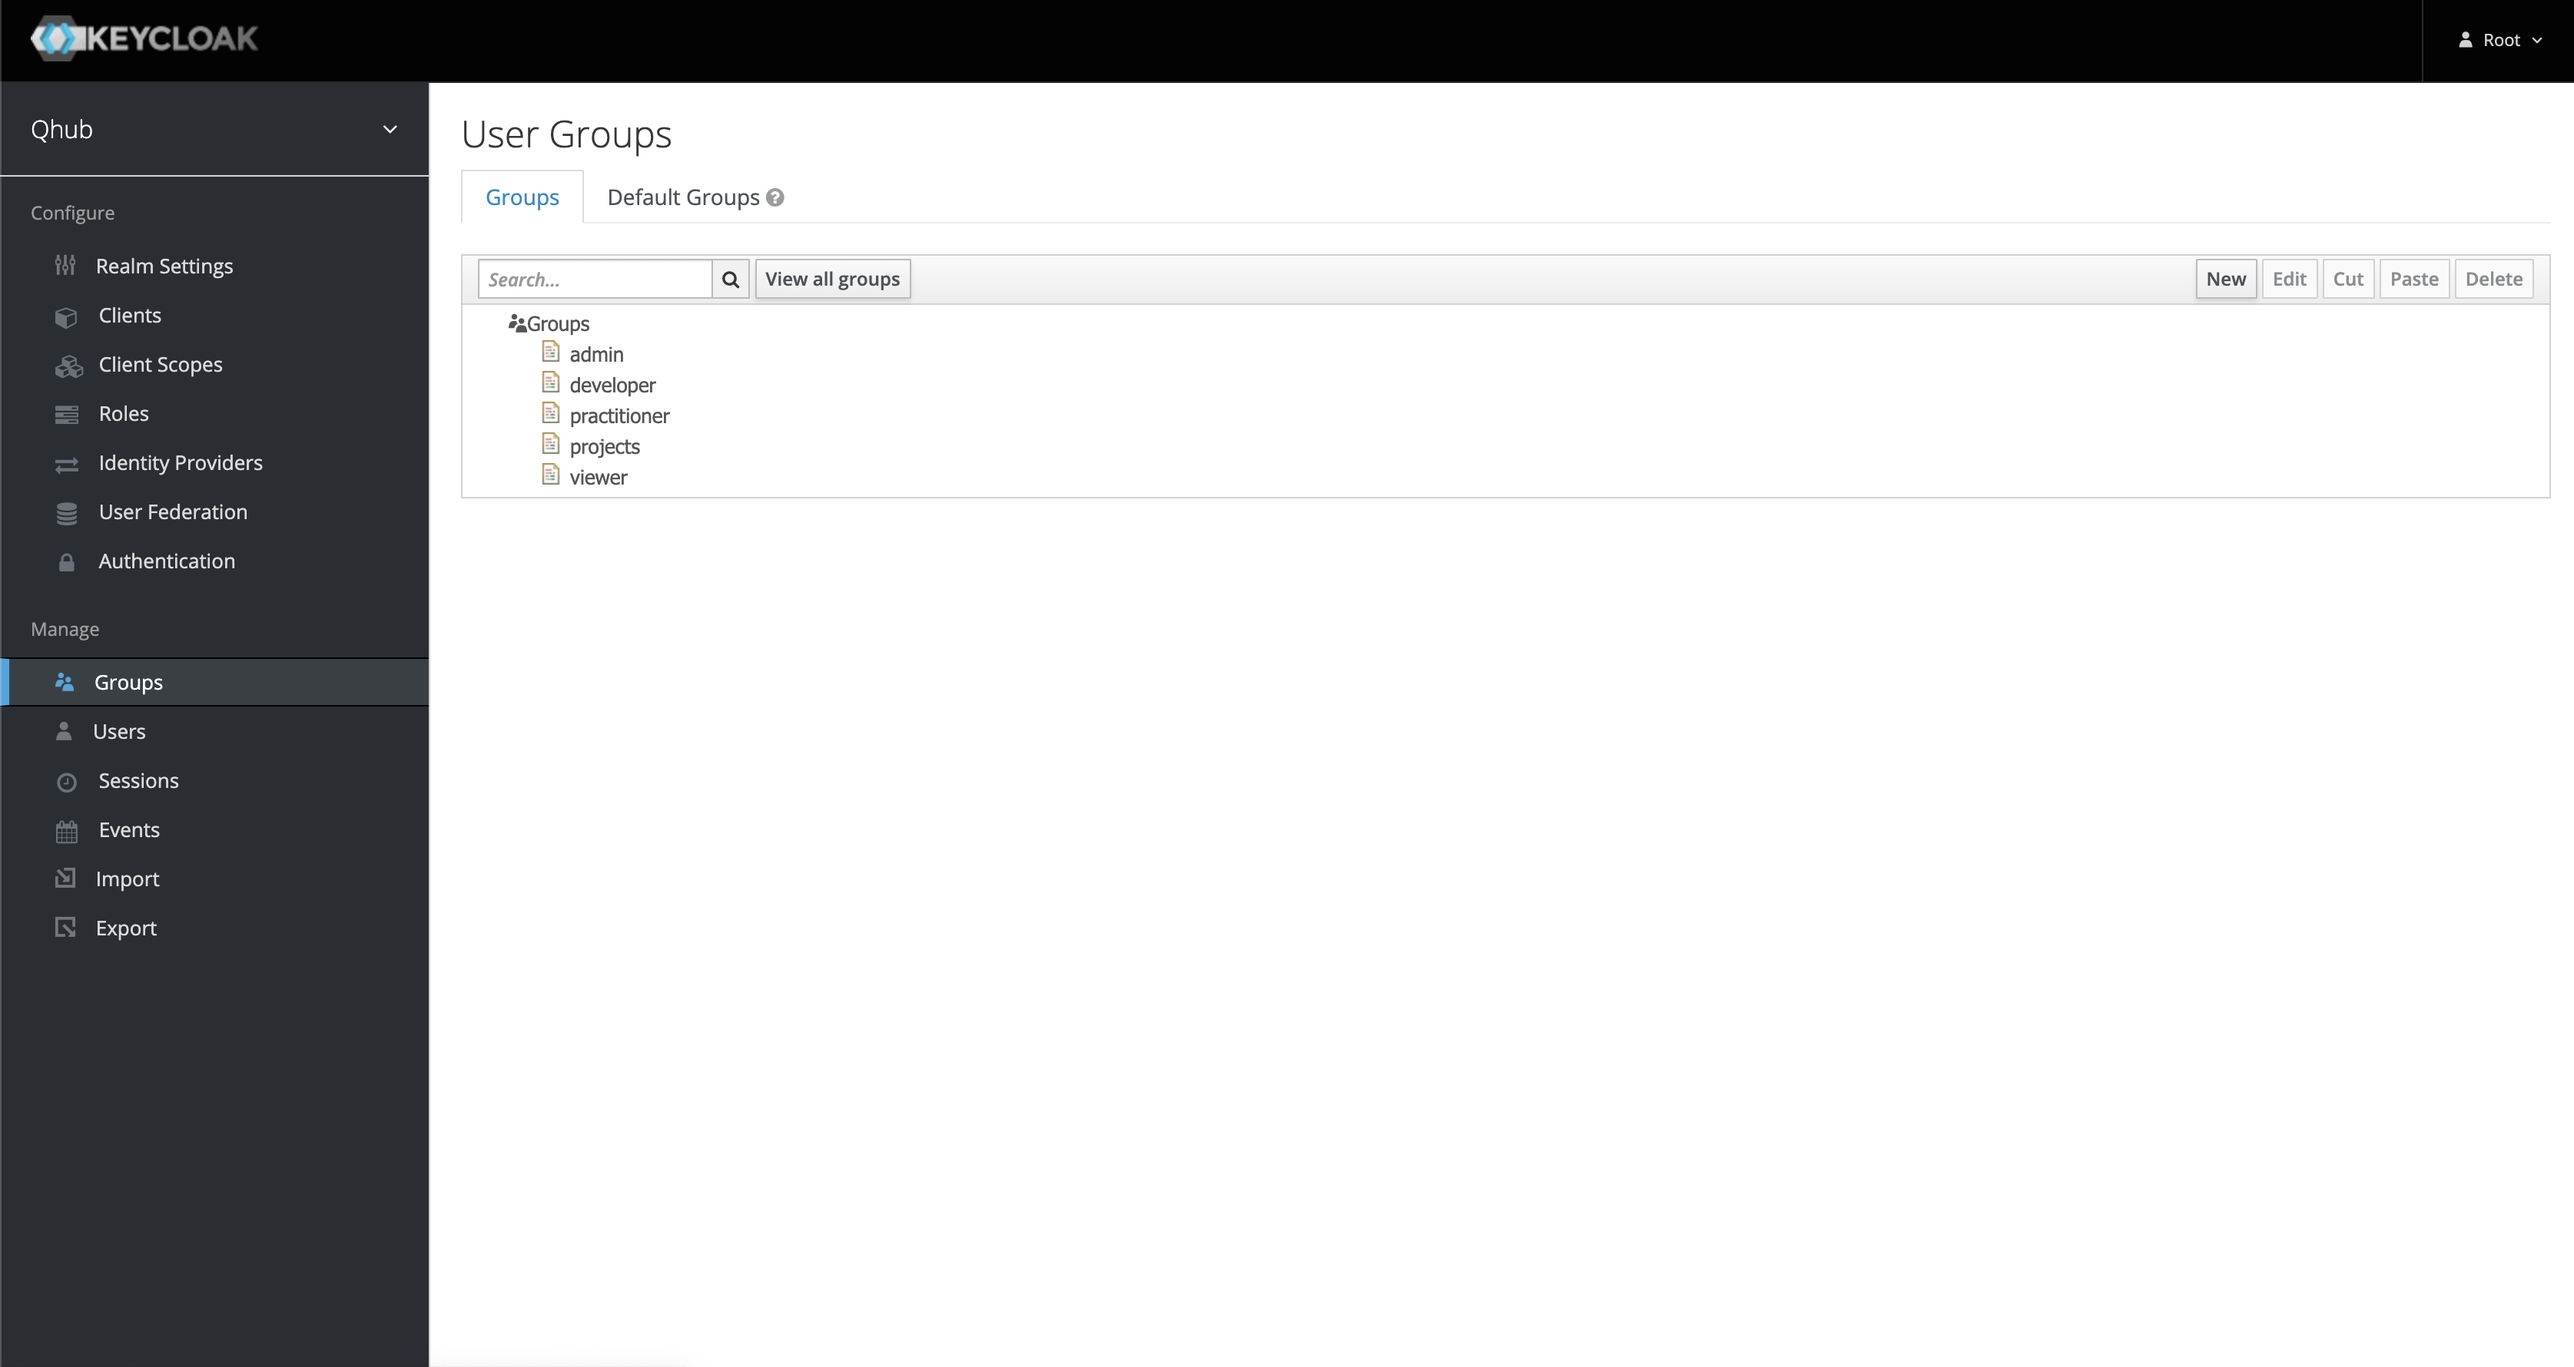
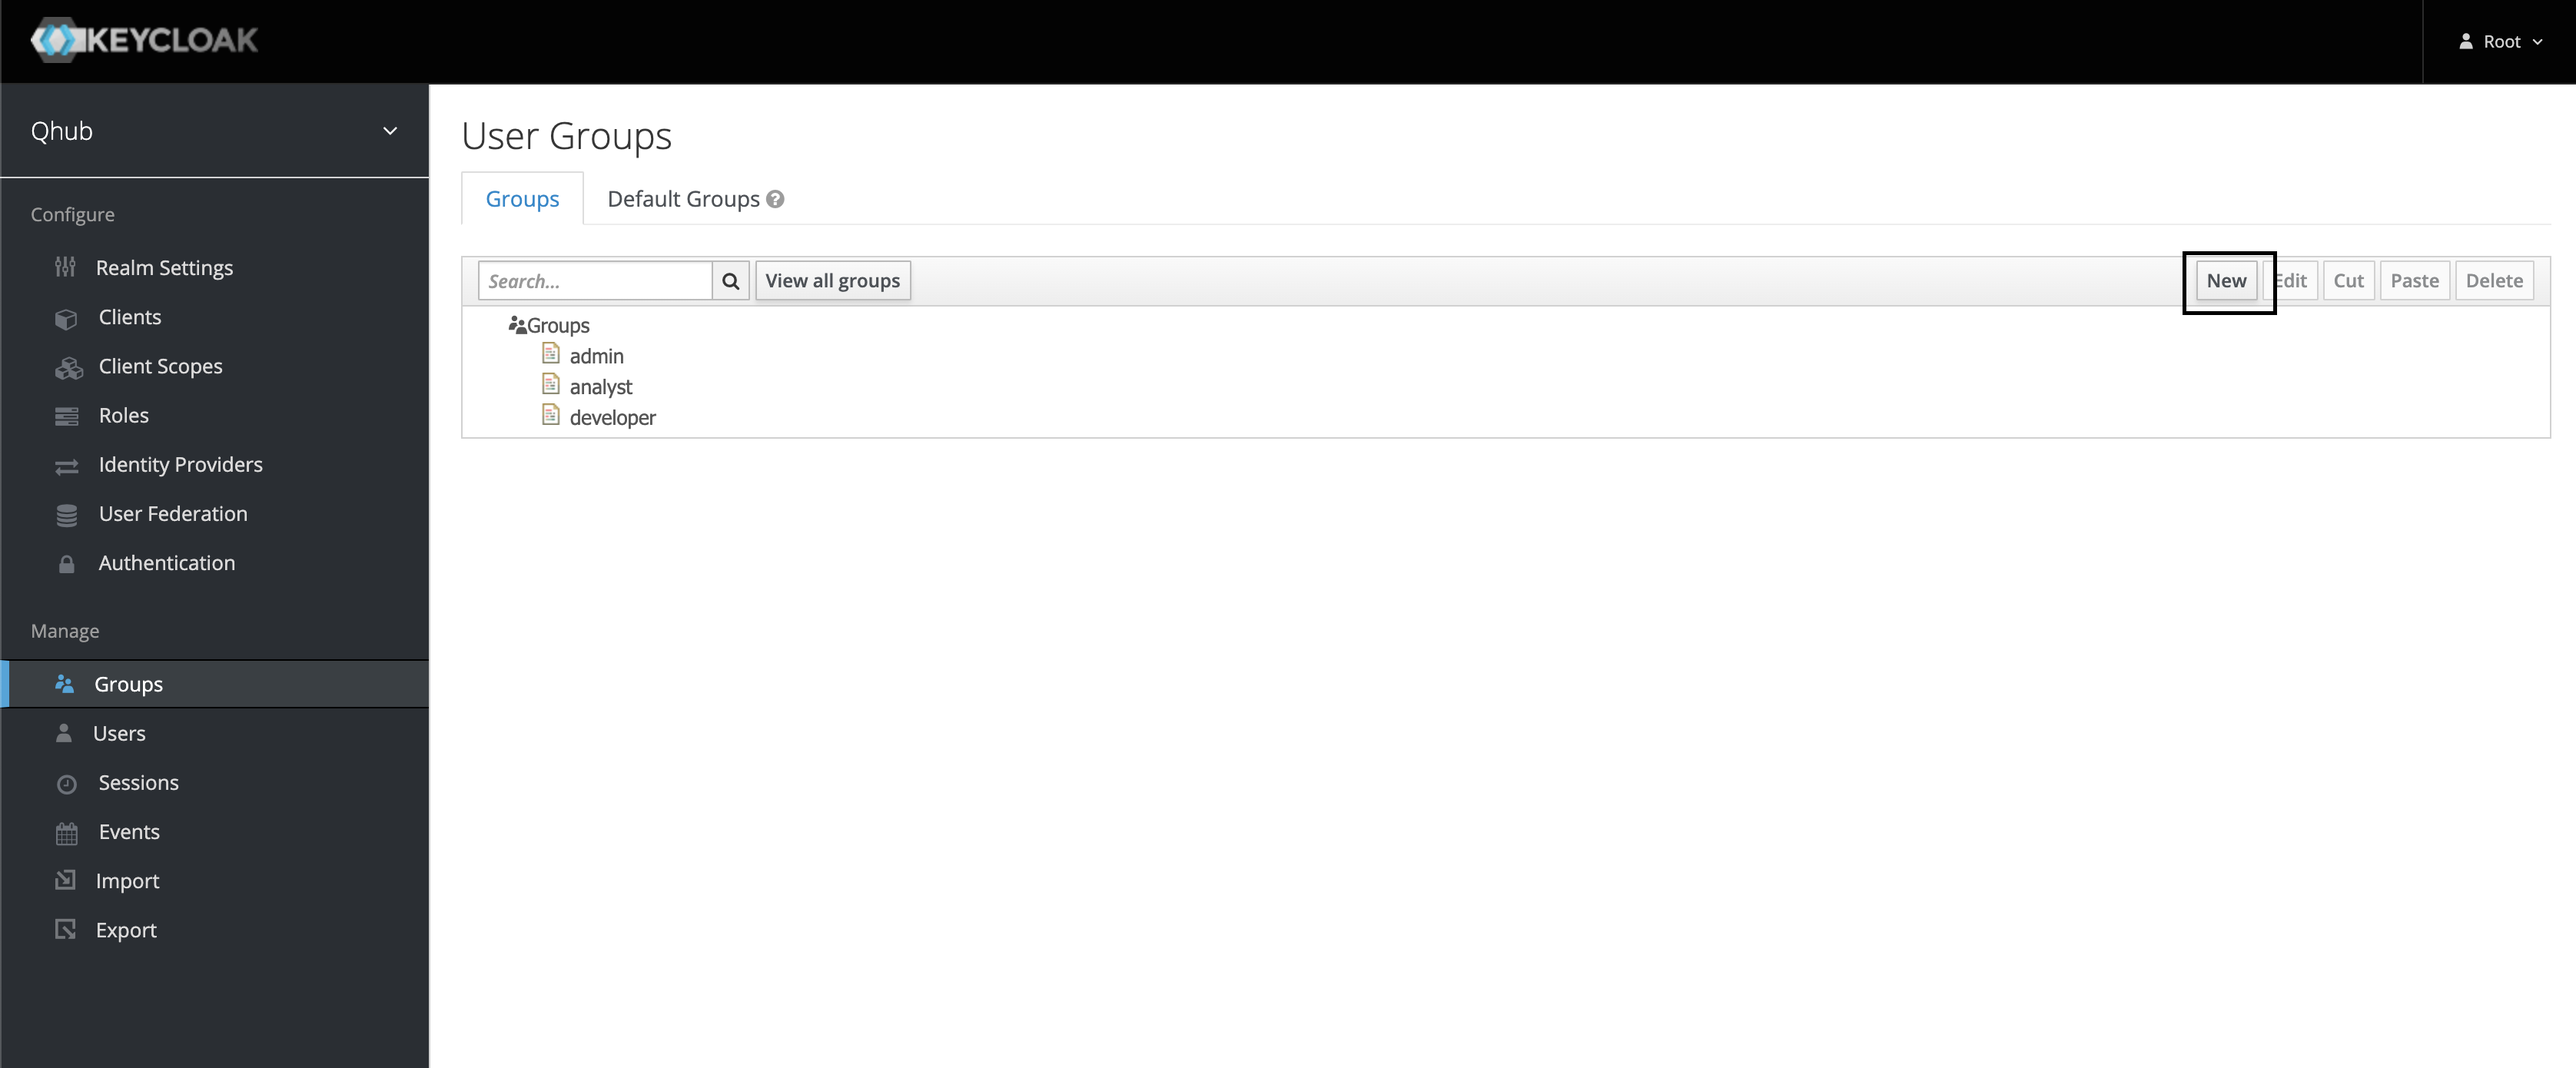
Update keycloak docs

diff --git a/docs/source/installation/login.md b/docs/source/installation/login.md
@@ -1,18 +1,73 @@
 # Login
 
-Keycloak is the name of the open source user management software that's automatically deployed within QHub. It's used to store the database of all users in your QHub site, and can provide connectivity to other services such GitHub/Auth0 single-sign on.
+[Keycloak](https://www.keycloak.org/) is the name of the open source user management software that's automatically deployed within QHub. It's used to store the database of all users in your QHub site, and can provide connectivity to other services such GitHub/Auth0 single-sign on.
 
-If you ran `qhub init` to create your `qhub-config.yaml` configuration file in the [Usage](usage.md) step, you will have been provided with a `random password for Keycloak root user`.
+If you ran `qhub init` to create your `qhub-config.yaml` configuration file in the [Usage](usage.md) step, you will have been provided with a `random password for Keycloak root user`. The password will also be visible in the `qhub-config.yaml` file under the `security.keycloak.initial_root_password` field.
 
-The password will also be visible in the `qhub-config.yaml` file under the `security.keycloak.initial_root_password` field.
+The `root` Keycloak user is only able to login and manage the Keycloak identity management section of QHub. It's not a user of the wider QHub data science platform.
 
-Note that when your QHub is first deployed, the password given at that location will be set for the root Keycloak user. If added or changed for subsequent deployments, that password value will have no effect.
+## Change Keycloak root password
 
-Please note the root Keycloak user is only able to login and manage the Keycloak identity management section of QHub. It's not a user of the wider QHub data science platform.
+After the inital deployment, it is **highly** recommended that you change the Keycloak `root` user password as soon as you can.
+> NOTE: From this point on, the `security.keycloak.initial_root_password` field in `qhub-config.yaml` has no effect. If you redeploy QHub it will not reset the password back to the old one (or anything else that might be in the field in your YAML file). You can delete that line from your YAML file if you wish.
+
+To change the `root` user password, navigate to `https://myqhubsite.com/auth/admin/`, and login with the pasword provided.
+
+![Root Login to Keycloak](../images/keycloak_master_login.png)
+
+From there, click on the 'Root' dropdown in the top right of the screen, and select 'Manage account'.
+
+![Keycloak root user, manage account](../images/keycloak_root_user_manage_account.png)
+
+Under 'Account Security' click 'Signing In'.
+
+![Keycloak root user, account security](../images/keycloak_root_user_account_security.png)
+
+In the Password box, click the 'Update' button. This will guide you through entering your existing root password, and then creating a new password.
+
+![Keycloak root user, update password](../images/keycloak_root_user_update_password.png)
+
 
 ## Adding a QHub user
 
-You will need to add a QHub user in order to login to your QHub platform. If you have chosen to use GitHub or Auth0 single-sign on, you must ensure the usernames you provide for new users in Keycloak match the usernames from GitHub/Auth0.
+You will need to add a QHub user in order to login to your QHub platform. If you have chosen to use GitHub or Auth0 single-sign on, you must ensure the 'Username' you provide for new users in Keycloak match the usernames from GitHub or Auth0 respectively.
+
+### Add user using Keycloak console
+
+To add a QHub user from the web console for Keycloak, visit `https://myqhubsite.com/auth/admin/`. Login using the username `root`, as shown above.
+
+All QHub users will be part of the `qhub` realm (a realm is a distinct identity provider and set of users in Keycloak).
+> NOTE: The root user alone is a member of the `master` realm.
+
+The `qhub` realm should be selected by default.
+
+Click 'Users' along the left-hand side of the page.
+
+Click the 'Add user' button and you will see the new user form:
+
+![Keycloak add user tab screenshot - new user form ](../images/keycloak_add_users.png)
+
+There are three fields, outlined above, which should be filled out. These are 'Username', 'Email', and 'Groups'.
+
+Depending on the authentication provider selected ('password', 'GitHub' or 'Auth0'), the values entered into the 'Username' field will differ slightly. The following table outlines those differences:
+
+|   | Password  | GitHub  | Auth0   |
+|---|---|---|---|
+| Username | *unique username*  | *GitHub username* | *Email to login with* |
+
+Once the 'Username' field has been updated, please add a valid email address in the 'Email' field.
+> NOTE: Although not required, users may not be able to log into Graphana if this field is not properly set.
+
+Lastly, associate the user with one or more of the 'Groups'. Out of the box, QHub is deployed with the following groups: 'admin', 'analyst', and 'developer' (see below for more information about 'Groups').
+
+Enter the name you would like for the user then click 'Save'.
+
+Once the user has been created, you can set a password
+> NOTE: not needed for GitHub/Auth0 based authentication.
+
+![Keycloak add user > credentials tab screenshot - set password](../images/keycloak_user_password.png)
+
+It's best to unset the 'Temporary' on/off button so the user won't be forced to change the password on first login.
 
 ### Add user from command line
 
@@ -24,49 +79,7 @@ qhub keycloak -c qhub-config.yaml adduser bob pa55w0rd
 ```
 
 This will create a user called bob with the initial password provided. Omit the password completely if you are using GitHub or Auth0.
-
-### Add user using Keycloak console
-
-To add a QHub user from the web console for Keycloak, visit `https://myqhubsite.com/auth/admin/`
-
-(Switch 'myqhubsite.com' for the domain you provided for your QHub deployment.)
-
-![Root Login to Keycloak](../images/keycloak_master_login.png)
-
-Login using the username `root` and the password provided for the initial Keycloak root password.
-
-All QHub users will be part of the `qhub` realm (a realm is a distinct identity provider and set of users in Keycloak). Note that the root user alone is a member of the `master` realm.
-
-The `qhub` realm should be selected by default.
-
-Click 'Users' along the left-hand side of the page.
-
-Click the 'Add user' button and you will see the new user form:
-
-![Keycloak add user tab screenshot - new user form ](../images/keycloak_add_users.png)
-
-There are three fields, outlined above, which should be filled out.These are 'Username', 'Email', and 'Groups'.
-
-Depending on the authentication provider selected ('password', 'GitHub' or 'Auth0'), the values entered into the 'Username' field will differ slightly. The following table outlines those differences:
-
-|   | Password  | GitHub  | Auth0   |
-|---|---|---|---|
-| Username | *unique username*  | *GitHub username* | *Email to login with* |
-
-Once the 'Username' field has been updated, please add a valid email address in the 'Email' field.
-> NOTE: although not required, users may not be able to log into Graphana if this field is not properly set.
-
-Lastly, associate the user with one or more of the 'Groups'. By default, QHub is deployed with the following groups: 'admin', 'developer', 'practitioner' and 'viewer' (see below for more information about 'Groups').
-> NOTE: users will not be able to log into JupyterLab if the user is in the 'viewer' group or if this field is unset.
-
-Enter the name you would like for the user then click 'Save'.
-
-Once the user has been created, you can set a password
-> NOTE: not needed for GitHub/Auth0 based authentication.
-
-![Keycloak add user > credentials tab screenshot - set password](../images/keycloak_user_password.png)
-
-It's best to unset the 'Temporary' on/off button so the user won't be forced to change the password on first login.
+> NOTE: This will also add the user to 'analyst' group.
 
 ## Login to QHub
 
@@ -78,35 +91,19 @@ Click 'Sign in with Keycloak'.
 
 ![Login to Keycloak](../images/keycloak_qhub_login.png)
 
-Enter the username and password you chose when you added a user to QHub above.
+If you chose GitHub or Auth0 login, click the 'GitHub' button to be taken to a GitHub login page and single-sign on from there (as shown in the screenshot above). Otherwise, if you choose 'Password' based authentication, enter the username and password you chose when you added a user to QHub above.
 
-If you chose GitHub or Auth0 login, click the 'GitHub' button to be taken to a GitHub login page and single-sign on from there.
+## Groups
 
-# Change Keycloak root password
-
-You should change your root password for Keycloak now that you've got things running.
-
-Back in `https://myqhubsite.com/auth/admin/` you can click on the 'Root' dropdown in the top right of the screen, and select 'Manage account'.
-
-Under 'Account Security' click 'Signing In'.
-
-In the Password box, click the 'Update' button. This will guide you through entering your existing root password, and then entering a new password.
-
-From this point, the `security.keycloak.initial_root_password` field in `qhub-config.yaml` has no effect. If you redeploy QHub it will not reset the password back to the old one (or anything else that might be in the field in your YAML file). You can delete that line from your YAML file if you wish.
-
-# Groups
-
-Groups represent a collection of users that perform similar actions and therefore require the similar permissions. By default, QHub is deployed with the following groups: 'admin', 'developer', 'practitioner' and 'viewer'.
+Groups represent a collection of users that perform similar actions and therefore require the similar permissions. By default, QHub is deployed with the following groups: 'admin', 'developer', 'analyst' and 'viewer'.
 
 | Group | Access to QHub Resources |
 |---|---|
-| 'admin' | all resources  |
-| 'developer' | JupyterLab, Dask, Graphana, Dashboards, Conda-Store  |
-| 'practioner' | JupyterLab, Dashboards  |
-| 'viewer'  | Dashboards  |
+| 'admin' | Conda-Store Admin <br> Dask Admin <br> Jupyterhub Admin <br> Graphana Admin |
+| 'analyst' | Conda-Store Developer <br> Jupyterhub Developer <br> Graphana Viewer |
+| 'developer' | Conda-Store Developer <br> Dask Developer <br> Jupyterhub Developer <br> Graphana Developer |
 
 To create new groups or modify (or delete) existing groups, log in as `root` and click 'Groups' on the left-hand side.
-
 
 As an example, we create a new group named `conda-store-manager` and this group will have administrator access to the Conda-Store service.
 
